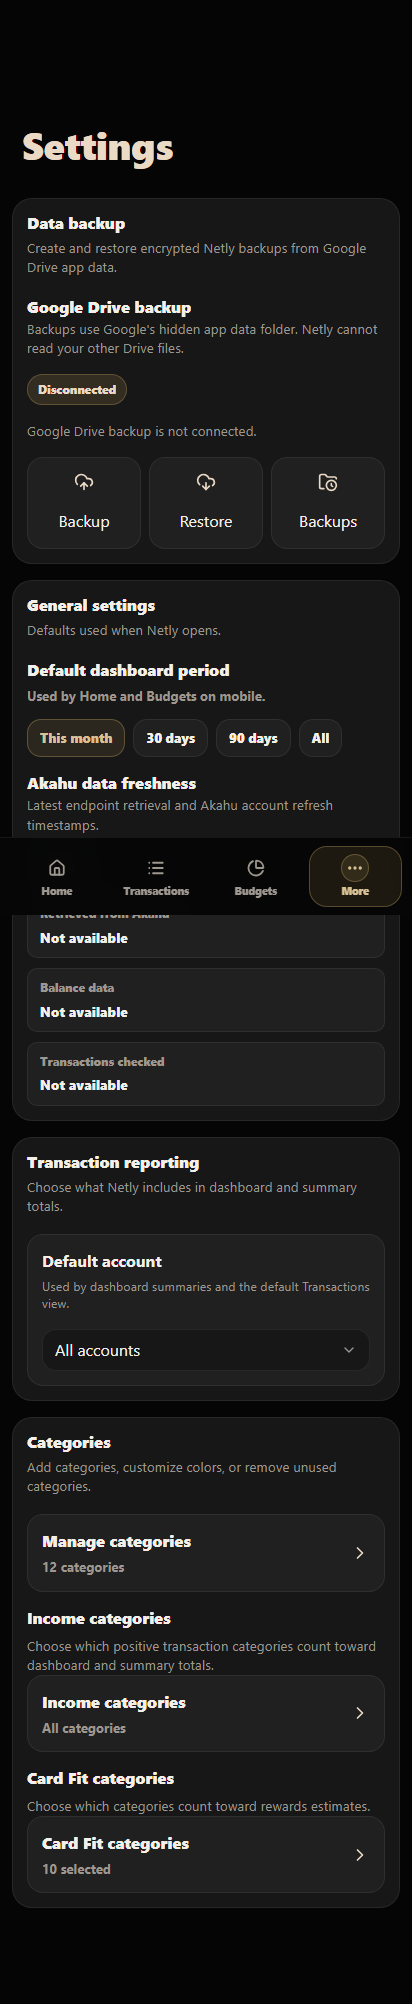
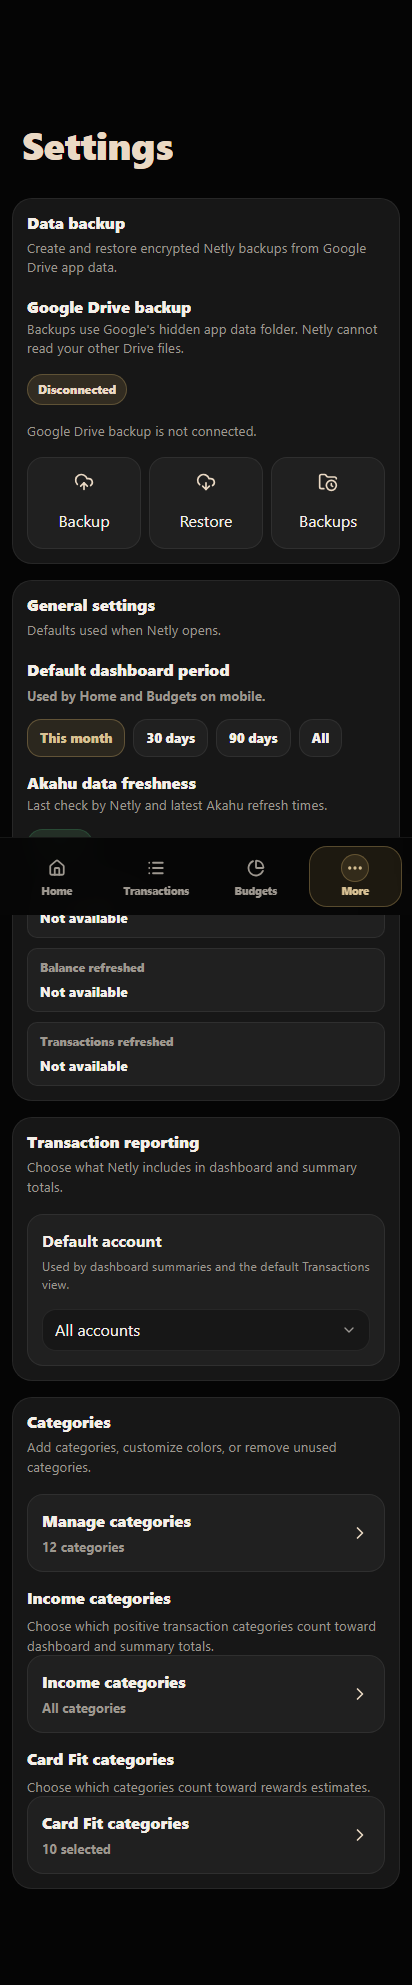
Removed polling file abstraction, updated copies
Also improved when refresh endpoints should run rather than anytime a user opens the application. It will now only run if it has been an hour or more since the last updated time stamp.

diff --git a/tests/visual/netly-visual.spec.ts b/tests/visual/netly-visual.spec.ts
@@ -81,31 +81,45 @@ test("high-risk CSS selectors keep expected computed styles", async ({ page }, t
   expect(JSON.stringify(probe, null, 2)).toMatchSnapshot(`computed-styles-${testInfo.project.name}.json`);
 });
 
-test("Akahu freshness leaves refreshing state before bounded transaction timestamp polling completes", async ({ page }) => {
+test("Akahu freshness stays refreshing until balance and transaction timestamps advance", async ({ page }) => {
   await page.unroute("**/api/akahu/accounts?source=user");
   await page.unroute("**/api/akahu/transactions?source=user**");
   await page.unroute("**/api/akahu/refresh");
 
   let accountCalls = 0;
+  let releaseFinalAccountSnapshot: (() => void) | null = null;
   let refreshCalls = 0;
   let transactionCalls = 0;
 
   await page.route("**/api/akahu/accounts?source=user", async (route) => {
     accountCalls += 1;
-    const payload = accountCalls >= 3
-      ? getConnectedAccountPayload({
-          balanceRefreshedAt: "2026-05-23T10:14:00.000Z",
-          transactionsRefreshedAt: "2026-05-23T10:18:00.000Z"
+
+    if (accountCalls >= 3) {
+      await new Promise<void>((resolve) => {
+        releaseFinalAccountSnapshot = resolve;
+      });
+      await route.fulfill({
+        contentType: "application/json",
+        json: getConnectedAccountPayload({
+          balanceRefreshedAt: "2020-01-01T10:14:00.000Z",
+          isStale: false,
+          transactionsRefreshedAt: "2020-01-01T10:18:00.000Z"
         })
-      : accountCalls === 2
-        ? getConnectedAccountPayload({
-            balanceRefreshedAt: "2026-05-23T10:14:00.000Z",
-            transactionsRefreshedAt: "2026-05-23T10:13:00.000Z"
-          })
-        : getConnectedAccountPayload({
-            balanceRefreshedAt: "2026-05-23T10:13:00.000Z",
-            transactionsRefreshedAt: "2026-05-23T10:13:00.000Z"
-          });
+      });
+      return;
+    }
+
+    const payload = accountCalls === 2
+      ? getConnectedAccountPayload({
+          balanceRefreshedAt: "2020-01-01T10:14:00.000Z",
+          isStale: true,
+          transactionsRefreshedAt: "2020-01-01T10:13:00.000Z"
+        })
+      : getConnectedAccountPayload({
+          balanceRefreshedAt: "2020-01-01T10:13:00.000Z",
+          isStale: true,
+          transactionsRefreshedAt: "2020-01-01T10:13:00.000Z"
+        });
 
     await route.fulfill({ contentType: "application/json", json: payload });
   });
@@ -140,11 +154,76 @@ test("Akahu freshness leaves refreshing state before bounded transaction timesta
   await page.goto("/settings");
 
   await expect(page.getByText("Refreshing", { exact: true })).toBeVisible({ timeout: 5000 });
+  await expect.poll(() => accountCalls, { timeout: 8000 }).toBe(3);
+  await expect.poll(() => transactionCalls, { timeout: 8000 }).toBe(1);
+  await expect(page.getByText("Current", { exact: true })).not.toBeVisible();
+  const releaseFinalSnapshot = releaseFinalAccountSnapshot as (() => void) | null;
+  if (!releaseFinalSnapshot) {
+    throw new Error("Final Akahu account snapshot request was not waiting.");
+  }
+  releaseFinalSnapshot();
   await expect(page.getByText("Current", { exact: true })).toBeVisible({ timeout: 5000 });
   await expect(page.getByText("Refreshing", { exact: true })).not.toBeVisible();
   await expect.poll(() => transactionCalls, { timeout: 8000 }).toBeGreaterThanOrEqual(2);
 
   expect(refreshCalls).toBe(1);
+});
+
+test("Akahu freshness skips refresh when timestamps are still fresh", async ({ page }) => {
+  await page.unroute("**/api/akahu/accounts?source=user");
+  await page.unroute("**/api/akahu/transactions?source=user**");
+  await page.unroute("**/api/akahu/refresh");
+
+  let accountCalls = 0;
+  let refreshCalls = 0;
+  let transactionCalls = 0;
+  const recentTimestamp = new Date().toISOString();
+
+  await page.route("**/api/akahu/accounts?source=user", async (route) => {
+    accountCalls += 1;
+    await route.fulfill({
+      contentType: "application/json",
+      json: getConnectedAccountPayload({
+        balanceRefreshedAt: recentTimestamp,
+        isStale: false,
+        transactionsRefreshedAt: recentTimestamp
+      })
+    });
+  });
+
+  await page.route("**/api/akahu/refresh", async (route) => {
+    refreshCalls += 1;
+    await route.fulfill({
+      contentType: "application/json",
+      json: {
+        connected: true,
+        notice: "Akahu refresh accepted.",
+        requestedAt: new Date().toISOString()
+      }
+    });
+  });
+
+  await page.route("**/api/akahu/transactions?source=user**", async (route) => {
+    transactionCalls += 1;
+    await route.fulfill({
+      contentType: "application/json",
+      json: {
+        source: "akahu",
+        connected: true,
+        rawCount: 0,
+        nextCursor: null,
+        transactions: []
+      }
+    });
+  });
+
+  await page.goto("/settings");
+
+  await expect(page.getByText("Current", { exact: true })).toBeVisible({ timeout: 5000 });
+  await expect(page.getByText("Refreshing", { exact: true })).not.toBeVisible();
+  expect(accountCalls).toBe(1);
+  expect(refreshCalls).toBe(0);
+  expect(transactionCalls).toBe(1);
 });
 
 // Waits for the app shell to finish rendering before screenshots or probes run.
@@ -206,9 +285,11 @@ async function mockDisconnectedAkahu(page: import("@playwright/test").Page) {
 // Builds a connected Akahu account payload with explicit freshness timestamps.
 function getConnectedAccountPayload({
   balanceRefreshedAt,
+  isStale = false,
   transactionsRefreshedAt
 }: {
   balanceRefreshedAt: string;
+  isStale?: boolean;
   transactionsRefreshedAt: string;
 }) {
   return {
@@ -233,7 +314,7 @@ function getConnectedAccountPayload({
       }
     ],
     balanceRefreshedAt,
-    isStale: false,
+    isStale,
     manualRefreshCooldownMs: 900000,
     primaryAccount: {
       id: "acc-main",

diff --git a/hooks/useAkahuData.ts b/hooks/useAkahuData.ts
@@ -2,7 +2,6 @@
 
 import { useCallback, useRef, useState } from "react";
 import { toast } from "sonner";
-import { akahuRefreshPollingIntervalMs, akahuRefreshPollingTimeoutMs, akahuRefreshStillProcessingNotice, hasRefreshTimestampAdvanced } from "@/lib/app/akahu-refresh-polling";
 import { archiveAndMergeTransactions, markArchiveIncrementalTransactionSynced, readArchivedAccountSnapshot, readArchivedTransactions, writeArchivedAccountSnapshot } from "@/lib/app/transaction-archive";
 import { getIncrementalTransactionSyncRange } from "@/lib/app/transaction-sync";
 import { currentBalance as fallbackBalance, transactions as fallbackTransactions } from "@/lib/mock-data";
@@ -44,6 +43,10 @@ type RefreshPayload = {
 type RefreshTransactionsOptions = {
   forceFullSync?: boolean;
 };
+
+const akahuRefreshPollingIntervalMs = 5 * 1000;
+const akahuRefreshPollingTimeoutMs = 60 * 1000;
+const akahuRefreshStillProcessingNotice = "Akahu accepted the refresh request, but transaction updates are still processing. Try again shortly if the latest transactions are not visible.";
 
 const emptyAkahuDataFreshness: AkahuDataFreshness = {
   accounts: [],
@@ -206,10 +209,9 @@ export function useAkahuData() {
         setTransactionLoadError("");
         setTransactionLoadNotice("notice" in syncResult ? syncResult.notice || "" : "");
 
-        if (manualRefreshResult?.shouldPollForTransactionFreshness) {
+        if (manualRefreshResult?.shouldPollForFreshness) {
           void pollAndResyncAfterAkahuRefresh({
             accountSetters,
-            baselinePayload: manualRefreshResult.baselinePayload,
             isCurrentRequest,
             latestPayload: manualRefreshResult.latestPayload,
             pageDateRange: dateRange,
@@ -487,14 +489,12 @@ type AccountRefreshPollingResult = {
 };
 
 type ManualRefreshResult = {
-  baselinePayload: AccountsPayload;
   latestPayload: AccountsPayload;
-  shouldPollForTransactionFreshness: boolean;
+  shouldPollForFreshness: boolean;
 };
 
 type PostRefreshPollingOptions = {
   accountSetters: AccountSnapshotStateSetters;
-  baselinePayload: AccountsPayload;
   isCurrentRequest: () => boolean;
   latestPayload: AccountsPayload;
   pageDateRange: TransactionDateRange | undefined;
@@ -509,7 +509,7 @@ type PostRefreshPollingOptions = {
   syncDateRange: TransactionDateRange | undefined;
 };
 
-// Loads account data and optionally requests a manual Akahu refresh for launch syncs.
+// Loads account data and optionally requests an on-demand Akahu refresh for launch syncs.
 async function loadAndApplyAccountSnapshot(
   mode: DataMode,
   isCurrentRequest: () => boolean,
@@ -524,7 +524,7 @@ async function loadAndApplyAccountSnapshot(
 
   applyAccountSnapshot(mode, accountsPayload, "refreshed", setters);
 
-  if (mode !== "user" || !accountsPayload.connected || !options.requestManualRefresh) {
+  if (mode !== "user" || !accountsPayload.connected || !options.requestManualRefresh || !accountsPayload.isStale) {
     return null;
   }
 
@@ -560,16 +560,11 @@ async function loadAndApplyAccountSnapshot(
     return null;
   }
 
-  applyAccountSnapshot(mode, refreshedAccountsPayload, "refreshed", setters);
+  applyAccountSnapshot(mode, refreshedAccountsPayload, refreshedAccountsPayload.isStale ? "refreshing" : "refreshed", setters);
 
   return {
-    baselinePayload: accountsPayload,
     latestPayload: refreshedAccountsPayload,
-    shouldPollForTransactionFreshness: !hasRefreshTimestampAdvanced(
-      accountsPayload.transactionsRefreshedAt,
-      refreshedAccountsPayload.transactionsRefreshedAt,
-      "transactionsRefreshedAt"
-    )
+    shouldPollForFreshness: refreshedAccountsPayload.isStale
   };
 }
 
@@ -613,9 +608,8 @@ async function loadAccountsPayload(mode: DataMode) {
   return payload;
 }
 
-// Polls Akahu account freshness until transactions advance or the bounded window ends.
-async function pollAccountsUntilTransactionsRefresh(
-  baselinePayload: AccountsPayload,
+// Polls Akahu account freshness until both balance and transaction timestamps are current.
+async function pollAccountsUntilFresh(
   latestPayload: AccountsPayload,
   isCurrentRequest: () => boolean,
   setters: AccountSnapshotStateSetters
@@ -632,14 +626,15 @@ async function pollAccountsUntilTransactionsRefresh(
       }
 
       currentPayload = payload;
-      applyAccountSnapshot("user", payload, "refreshed", setters);
 
-      if (hasRefreshTimestampAdvanced(baselinePayload.transactionsRefreshedAt, payload.transactionsRefreshedAt, "transactionsRefreshedAt")) {
+      if (!payload.isStale) {
         return {
           payload,
           timedOut: false
         };
       }
+
+      applyAccountSnapshot("user", payload, "refreshing", setters);
     } catch (error) {
       if (isCurrentRequest()) {
         setters.setAkahuDataFreshness({
@@ -669,8 +664,7 @@ async function pollAccountsUntilTransactionsRefresh(
 // Continues a bounded Akahu freshness poll after the visible transaction sync has completed.
 async function pollAndResyncAfterAkahuRefresh(options: PostRefreshPollingOptions) {
   try {
-    const pollingResult = await pollAccountsUntilTransactionsRefresh(
-      options.baselinePayload,
+    const pollingResult = await pollAccountsUntilFresh(
       options.latestPayload,
       options.isCurrentRequest,
       options.accountSetters
@@ -715,7 +709,7 @@ async function pollAndResyncAfterAkahuRefresh(options: PostRefreshPollingOptions
   }
 }
 
-// Calls Akahu's manual refresh route and fails loudly if it is rejected.
+// Calls Akahu's on-demand refresh route and fails loudly if it is rejected.
 async function requestAkahuRefresh() {
   const response = await fetch("/api/akahu/refresh", { method: "POST" });
   const payload = await readJsonResponse<RefreshPayload>(response, "Akahu refresh");

diff --git a/app/api/akahu/accounts/route.ts b/app/api/akahu/accounts/route.ts
@@ -3,7 +3,6 @@ import { getAvailableBalance, toAccountDataFreshness, toLinkedAccount, type Akah
 import { createAkahuProviderFromEnv } from "@/lib/akahu/provider";
 import { getMissingAkahuCredentialsNotice, getValidAccessToken } from "@/lib/akahu/token";
 
-const staleDataThresholdMs = 12 * 60 * 60 * 1000;
 const personalAppManualRefreshCooldownMs = 60 * 60 * 1000;
 const fullAppManualRefreshCooldownMs = 15 * 60 * 1000;
 const demoAccounts: AkahuAccount[] = [
@@ -128,13 +127,14 @@ function getDemoAccountSnapshotPayload(accounts: AkahuAccount[]) {
 // Builds the account snapshot fields shared by demo and Akahu user mode.
 function getAccountSnapshotPayload(accounts: AkahuAccount[]) {
   const accountFreshness = accounts.map(toAccountDataFreshness);
+  const manualRefreshCooldownMs = getManualRefreshCooldownMs();
 
   return {
     availableBalance: getAvailableBalance(accounts),
     accountFreshness,
     balanceRefreshedAt: getOldestTimestamp(accountFreshness.map((account) => account.balanceRefreshedAt)),
-    isStale: hasStaleTimestamp(accountFreshness),
-    manualRefreshCooldownMs: getManualRefreshCooldownMs(),
+    isStale: hasStaleTimestamp(accountFreshness, manualRefreshCooldownMs),
+    manualRefreshCooldownMs,
     retrievedAt: new Date().toISOString(),
     transactionsRefreshedAt: getOldestTimestamp(accountFreshness.map((account) => account.transactionsRefreshedAt))
   };
@@ -164,13 +164,13 @@ function getOldestTimestamp(values: Array<string | null>) {
   return new Date(Math.min(...timestamps)).toISOString();
 }
 
-// Treats missing or old Akahu refresh metadata as stale so the UI can surface it.
-function hasStaleTimestamp(accounts: ReturnType<typeof toAccountDataFreshness>[]) {
+// Treats missing or cooldown-expired Akahu refresh metadata as stale so the UI can surface it.
+function hasStaleTimestamp(accounts: ReturnType<typeof toAccountDataFreshness>[], refreshCooldownMs: number) {
   if (accounts.length === 0) {
     return false;
   }
 
-  const staleCutoff = Date.now() - staleDataThresholdMs;
+  const staleCutoff = Date.now() - refreshCooldownMs;
 
   return accounts.some((account) => {
     return isMissingOrStale(account.balanceRefreshedAt, staleCutoff)
@@ -187,7 +187,7 @@ function isMissingOrStale(value: string | null, staleCutoff: number) {
   const timestamp = Date.parse(value);
 
   if (!Number.isFinite(timestamp)) {
-    return true;
+    throw new Error(`Invalid Akahu refresh timestamp "${value}".`);
   }
 
   return timestamp < staleCutoff;

diff --git a/features/settings/SettingsPage.tsx b/features/settings/SettingsPage.tsx
@@ -912,7 +912,7 @@ function AkahuFreshnessCard({ dataMode, freshness }: AkahuFreshnessCardProps) {
     <div className="grid grid-cols-[minmax(0,1fr)_auto] items-start gap-3.5 max-[768px]:grid-cols-1">
       <div>
         <h3 className="m-0 text-base font-black text-[var(--ink)]">Akahu data freshness</h3>
-        <p className="mt-1.5 text-[0.84rem] leading-[1.45] text-[var(--muted)]">{isDemoMode ? "Demo mode uses local sample data." : "Latest endpoint retrieval and Akahu account refresh timestamps."}</p>
+        <p className="mt-1.5 text-[0.84rem] leading-[1.45] text-[var(--muted)]">{isDemoMode ? "Demo mode uses local sample data." : "Last check by Netly and latest Akahu refresh times."}</p>
       </div>
       <span className={`settings-drive-status ${statusClassName} max-[768px]:w-fit`}>
         {statusLabel}
@@ -920,9 +920,9 @@ function AkahuFreshnessCard({ dataMode, freshness }: AkahuFreshnessCardProps) {
       {!isDemoMode && (
         <>
           <div className="col-span-full grid grid-cols-3 gap-2.5 max-[768px]:grid-cols-1" aria-live="polite">
-            <FreshnessMetric label="Retrieved from Akahu" value={formatAkahuFreshnessTime(freshness.retrievedAt)} />
-            <FreshnessMetric label="Balance data" value={formatAkahuFreshnessTime(freshness.balanceRefreshedAt)} />
-            <FreshnessMetric label="Transactions checked" value={formatAkahuFreshnessTime(freshness.transactionsRefreshedAt)} />
+            <FreshnessMetric label="Checked Akahu" value={formatAkahuFreshnessTime(freshness.retrievedAt)} />
+            <FreshnessMetric label="Balance refreshed" value={formatAkahuFreshnessTime(freshness.balanceRefreshedAt)} />
+            <FreshnessMetric label="Transactions refreshed" value={formatAkahuFreshnessTime(freshness.transactionsRefreshedAt)} />
           </div>
           {freshness.status === "failed" && freshness.error && (
             <p className="col-span-full mt-1.5 text-[0.84rem] font-extrabold leading-[1.45] text-[var(--danger)]">{freshness.error}</p>
@@ -935,8 +935,8 @@ function AkahuFreshnessCard({ dataMode, freshness }: AkahuFreshnessCardProps) {
                   <div className="rounded-[10px] border border-[var(--outline-soft)] bg-[var(--surface-2)] px-3 py-2.5" key={account.accountId}>
                     <strong className="mb-1 block text-[0.84rem] text-[var(--ink)]">{account.displayName}</strong>
                     <span className="block text-[0.74rem] font-extrabold text-[var(--muted)]">{account.status}</span>
-                    <span className="block text-[0.74rem] font-extrabold text-[var(--muted)]">Balance {formatAkahuFreshnessTime(account.balanceRefreshedAt)}</span>
-                    <span className="block text-[0.74rem] font-extrabold text-[var(--muted)]">Transactions {formatAkahuFreshnessTime(account.transactionsRefreshedAt)}</span>
+                    <span className="block text-[0.74rem] font-extrabold text-[var(--muted)]">Balance refreshed {formatAkahuFreshnessTime(account.balanceRefreshedAt)}</span>
+                    <span className="block text-[0.74rem] font-extrabold text-[var(--muted)]">Transactions refreshed {formatAkahuFreshnessTime(account.transactionsRefreshedAt)}</span>
                   </div>
                 ))}
               </div>